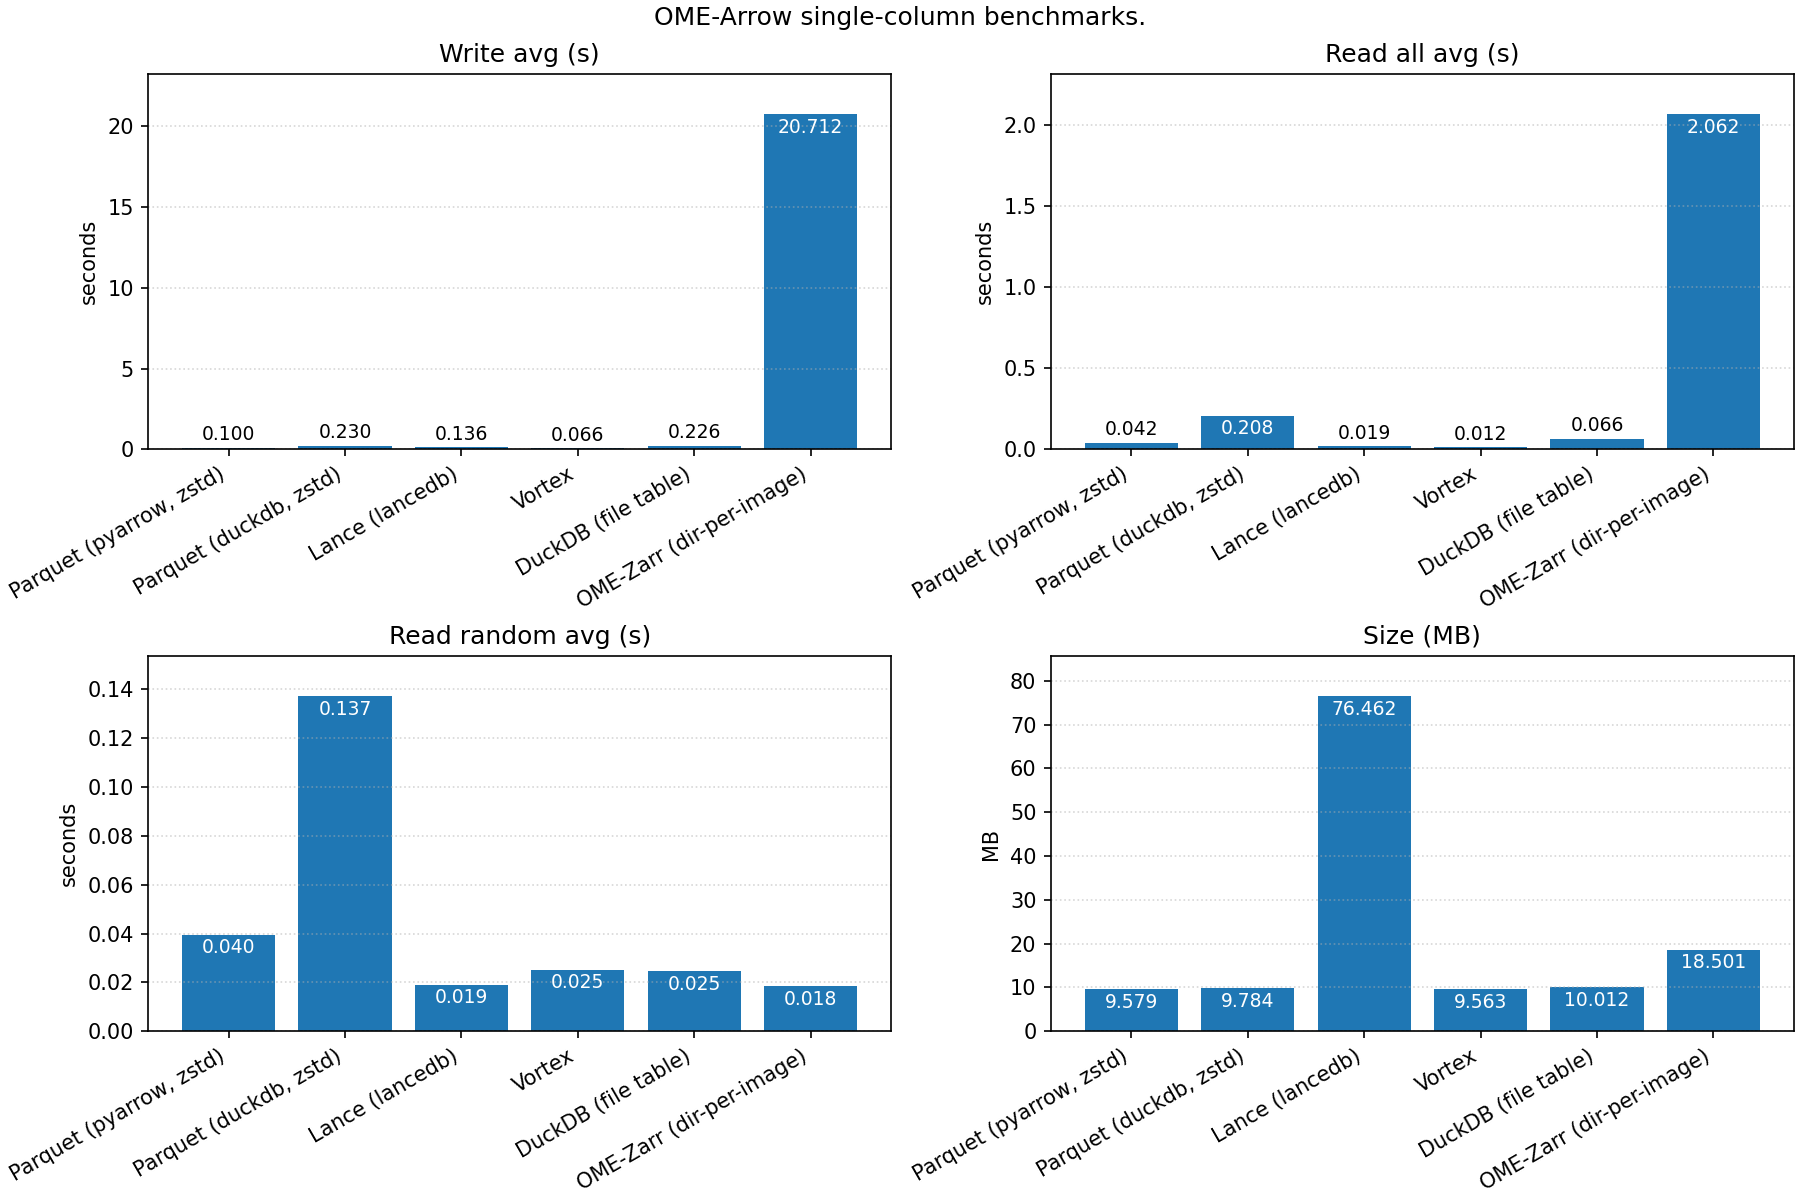
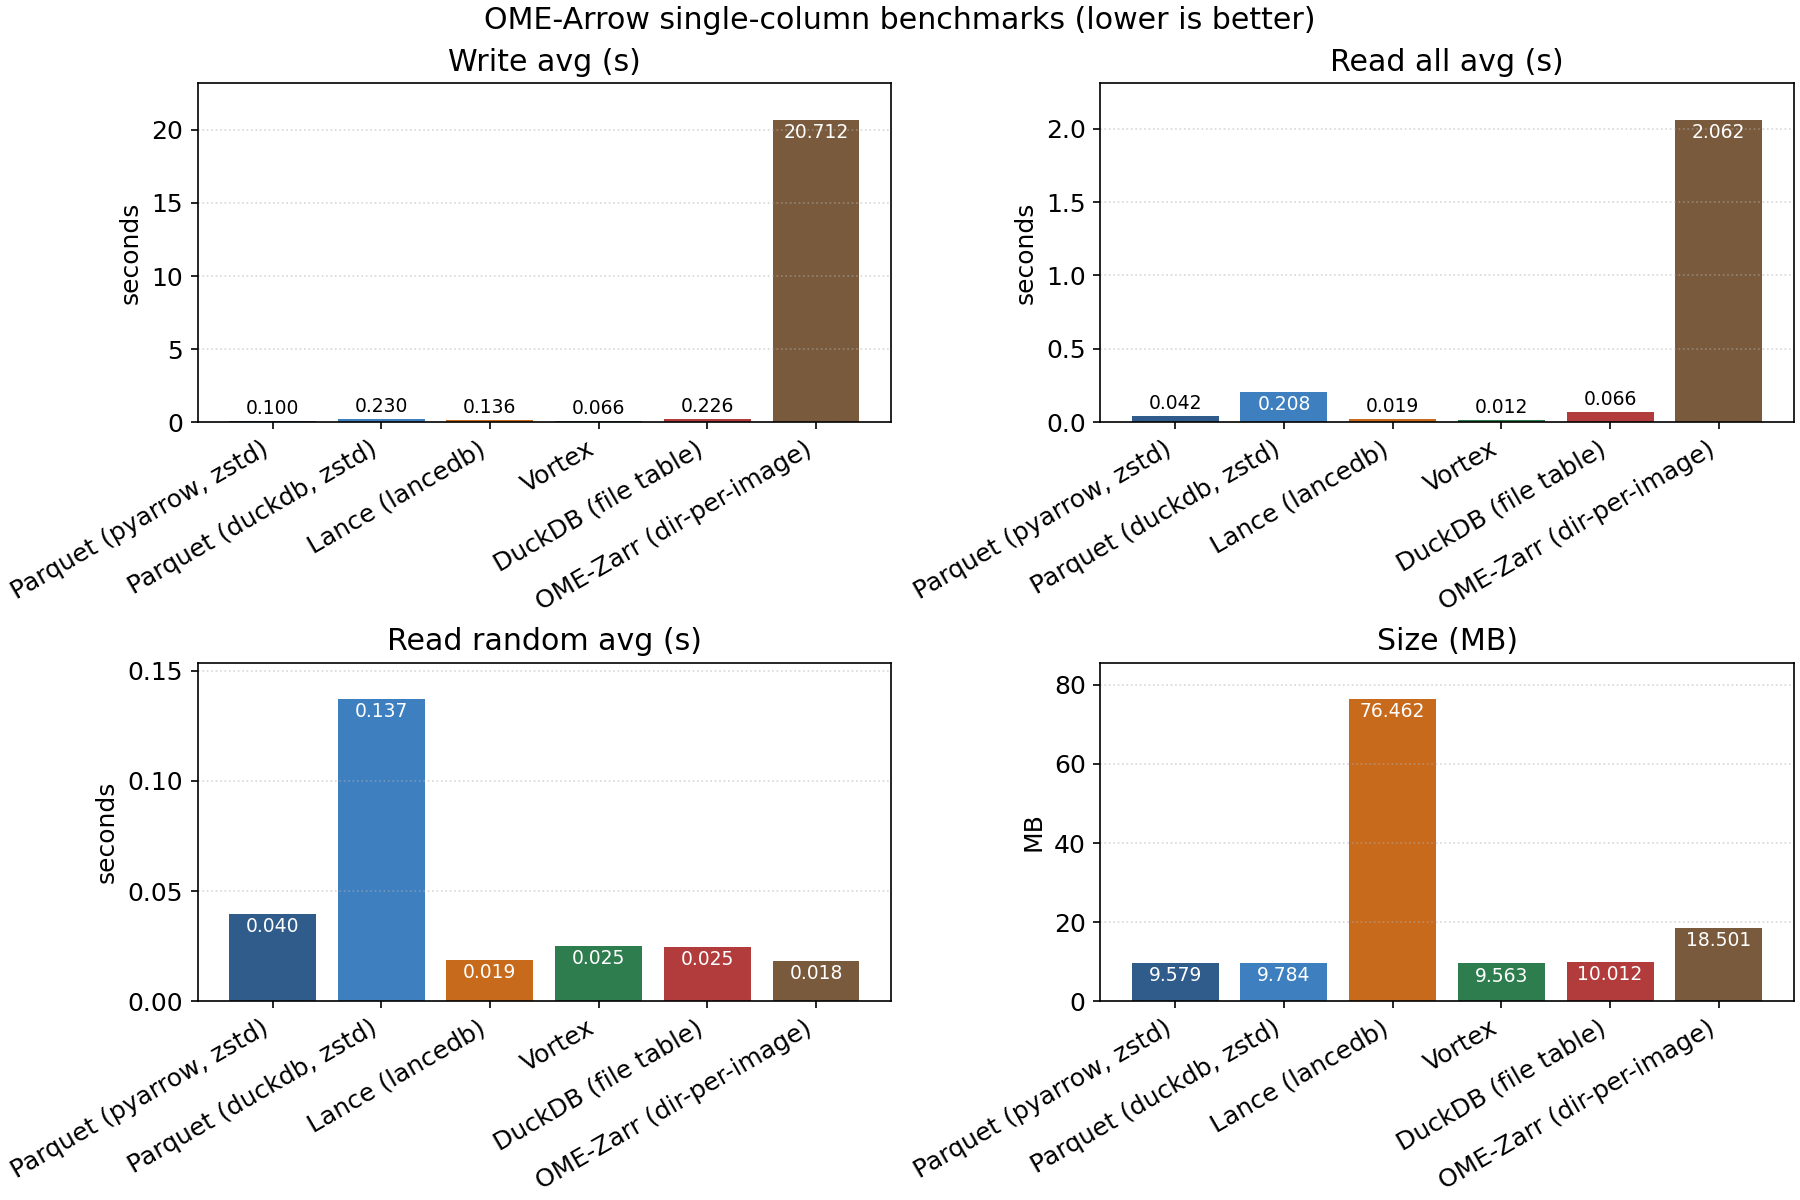
Re-add plots and data (#21)
* update to readd color plots and data

* Update .pre-commit-config.yaml

* add citation details

* Update CITATION.cff

diff --git a/README.md b/README.md
@@ -1,5 +1,7 @@
 # OME Arrow benchmarks
 
+[![Software DOI badge](https://zenodo.org/badge/DOI/10.5281/zenodo.18234383.svg)](https://doi.org/10.5281/zenodo.18234383)
+
 Benchmarking [OME Arrow](https://github.com/WayScience/ome-arrow) through Parquet, Vortex, LanceDB, and more.
 
 ## Running benchmarks
